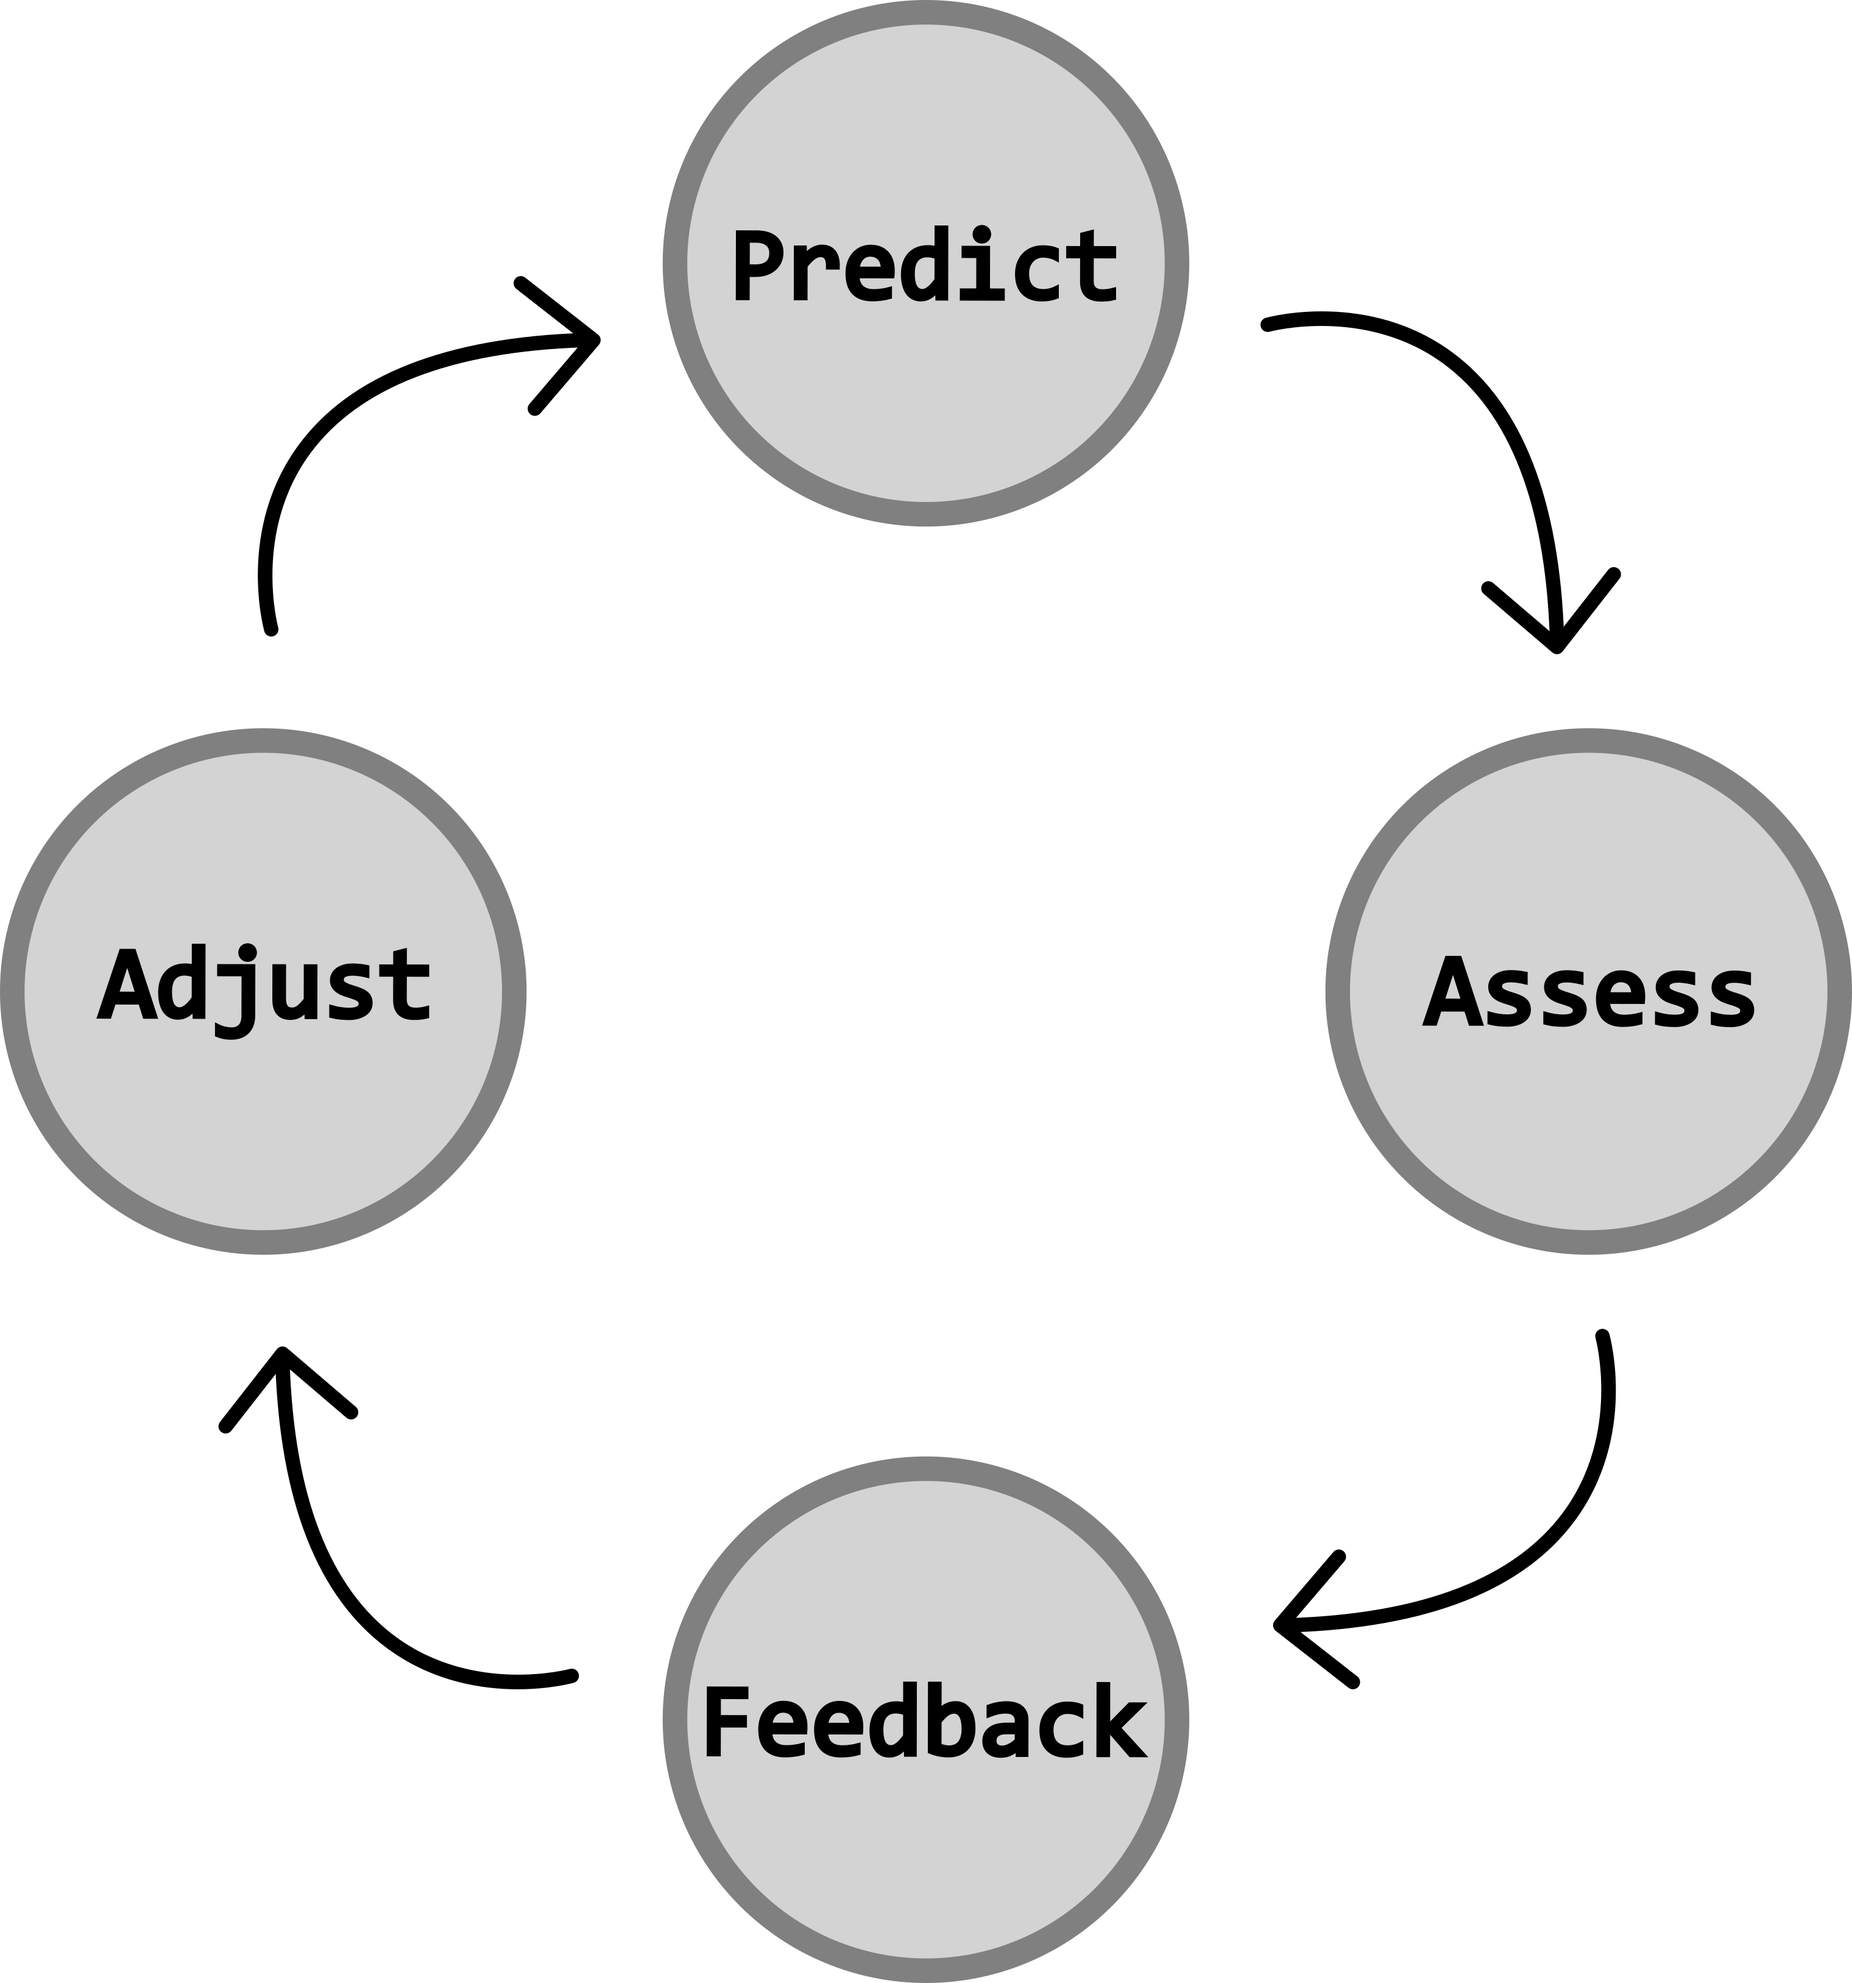
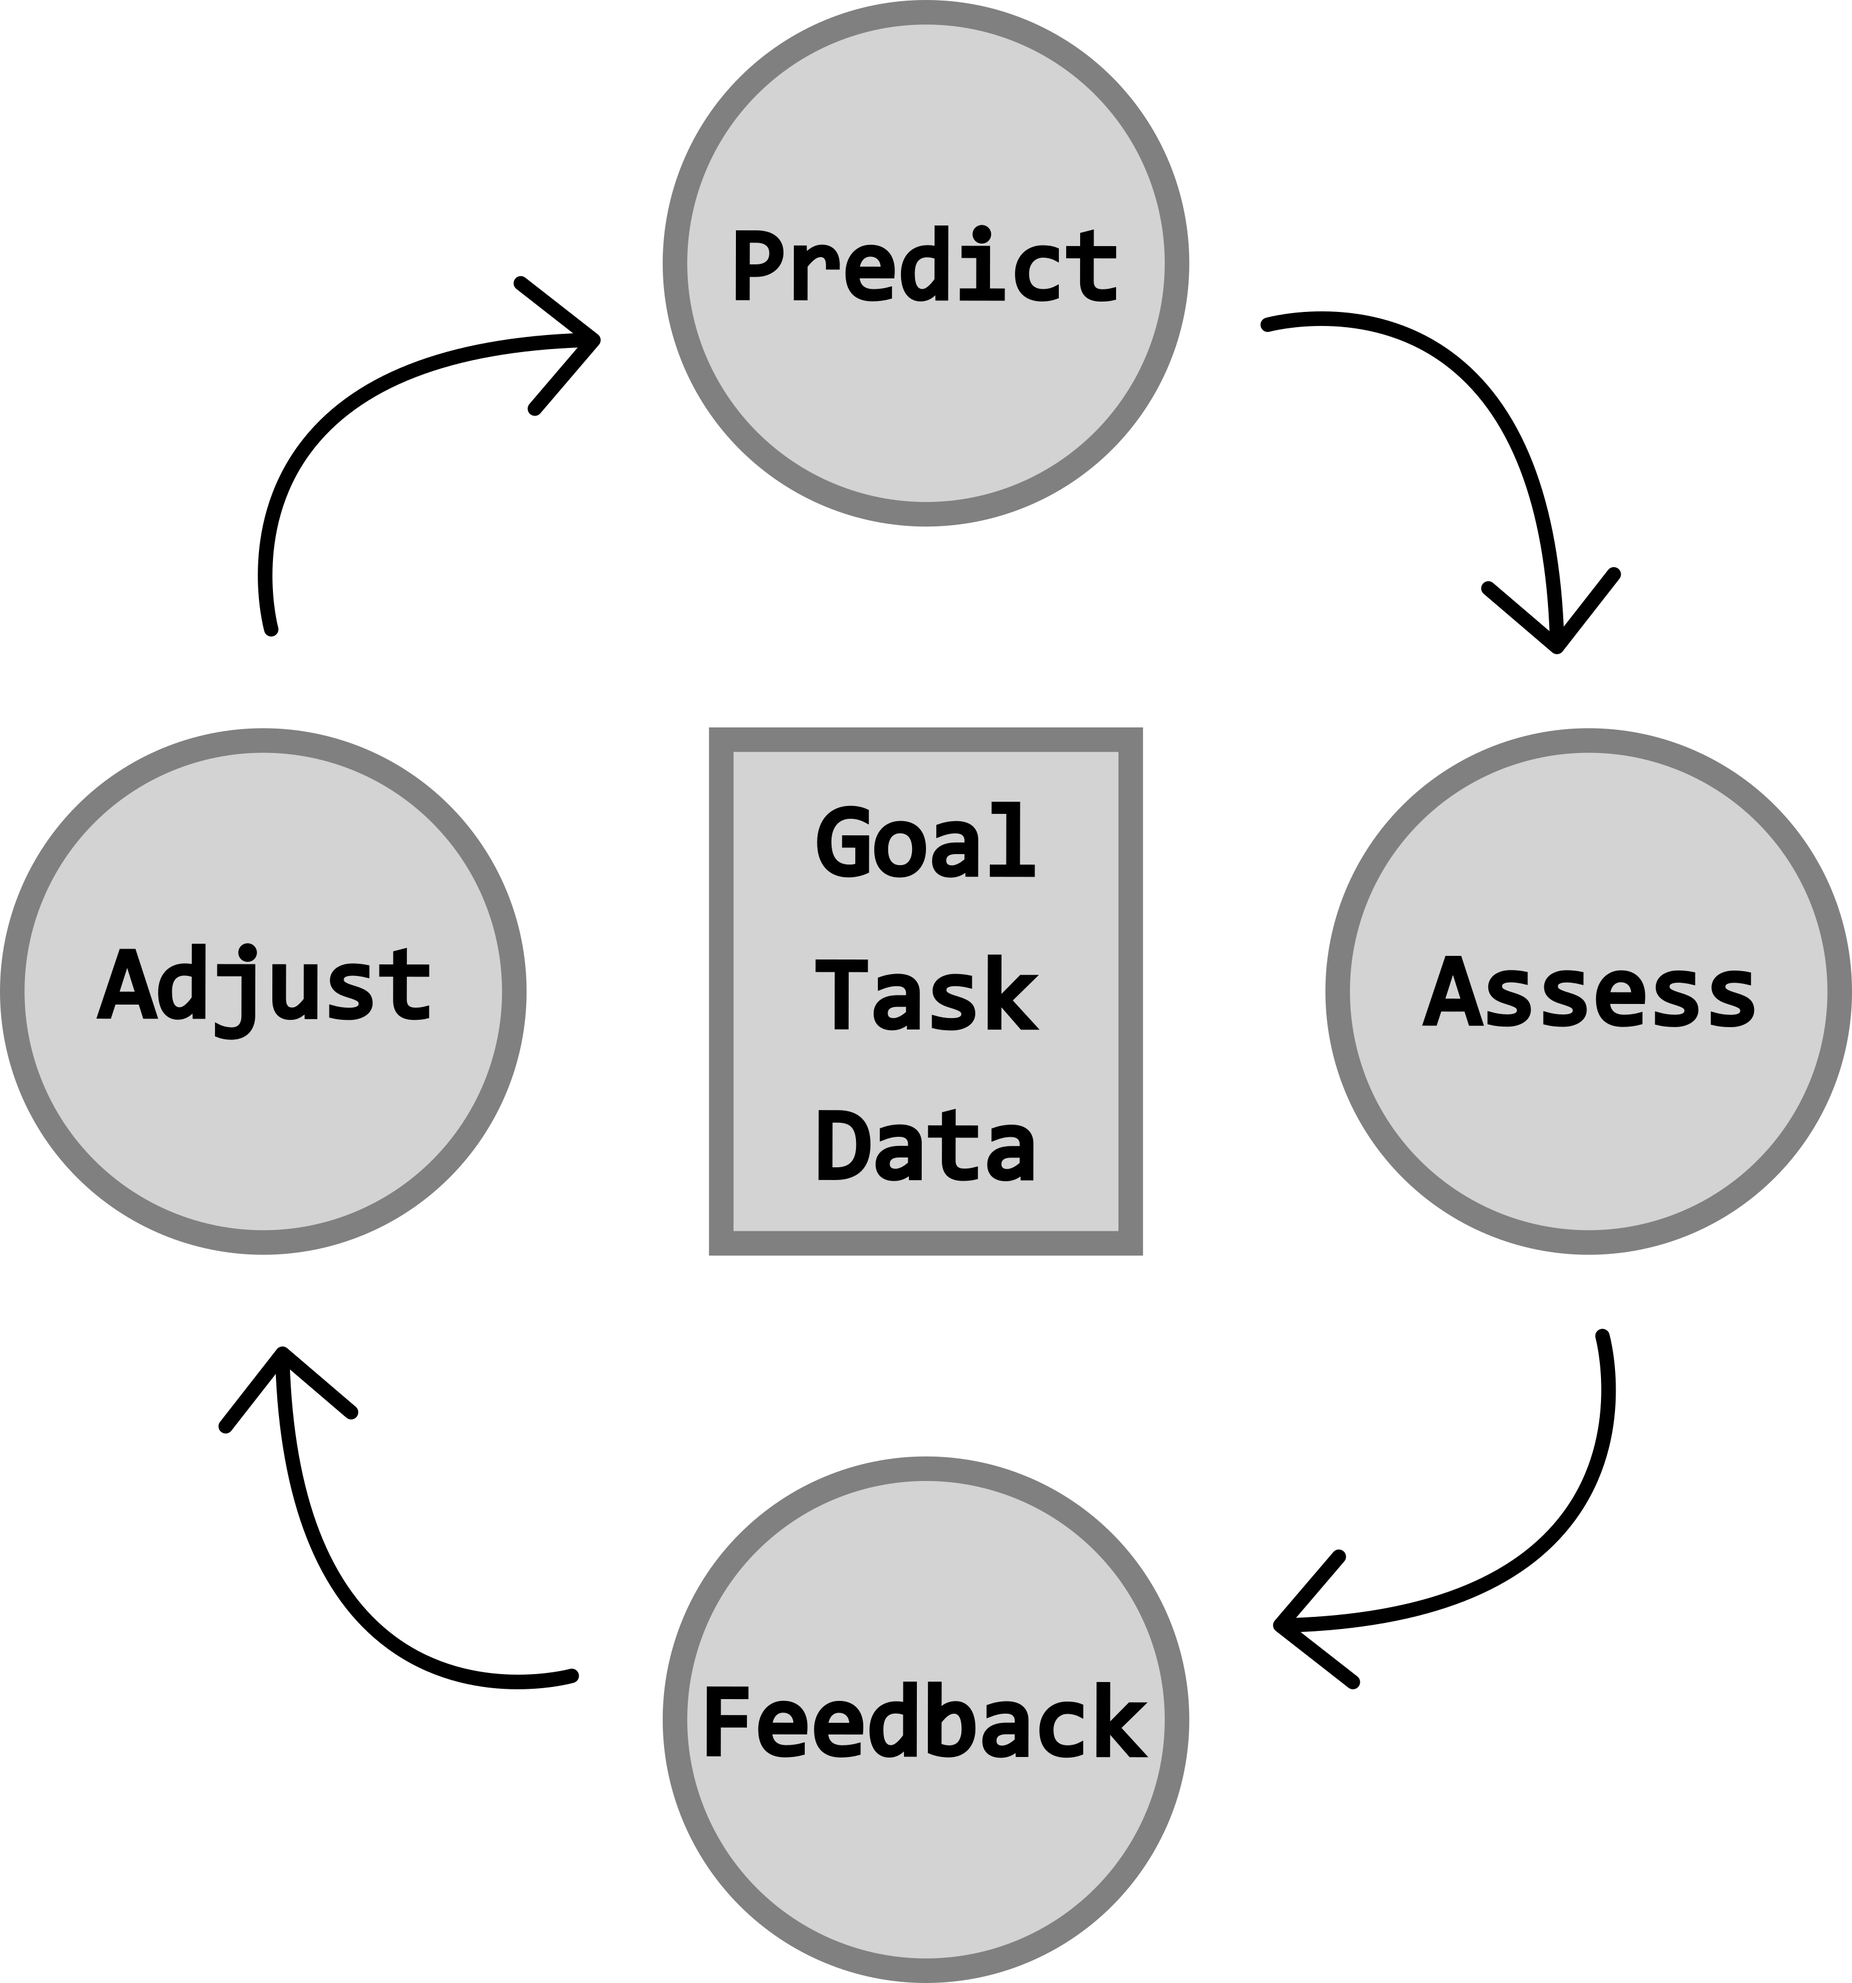
Updates to Intro

Changed region(s): [[0.375, 0.3413, 0.625, 0.6516]]

diff --git a/docs/01_intro.html b/docs/01_intro.html
@@ -208,6 +208,7 @@ window.Quarto = {
 
 <section id="relevant-resources" class="level2">
 <h2 class="anchored" data-anchor-id="relevant-resources">Relevant Resources</h2>
+<p><a href="https://www.deeplearningbook.org/" target="_blank">The Deep Learning Book</a></p>
 </section>
 <section id="what-is-deep-learning" class="level2">
 <h2 class="anchored" data-anchor-id="what-is-deep-learning">What is Deep Learning?</h2>
@@ -218,12 +219,13 @@ window.Quarto = {
 <img src="images/aivendiagram.png" class="img-fluid quarto-figure quarto-figure-center figure-img" style="width:50.0%">
 </div>
 <figcaption class="quarto-float-caption-bottom quarto-float-caption quarto-float-fig" id="fig-ai-vendiagram-caption-0ceaefa1-69ba-4598-a22c-09a6ac19f8ca">
-Figure&nbsp;1: AI Vendiagram
+Figure&nbsp;1: Different Types of Artificial Intelligence and Common Examples of Each
 </figcaption>
 </figure>
 </div>
 <section id="components-of-a-deep-neural-network" class="level3">
 <h3 class="anchored" data-anchor-id="components-of-a-deep-neural-network">Components of a Deep Neural Network</h3>
+<p>There are several key components and terms commonly used to describe a neural network. The <strong>depth</strong> of a neural network refers to the number of <strong>layers</strong> in its architecture (the example in <a href="#fig-neuralnetwork" class="quarto-xref">Figure&nbsp;2</a> has five layers), whereas the <strong>width</strong> refers to the number of neurons within each layer.</p>
 <div id="fig-neuralnetwork" class="quarto-float quarto-figure quarto-figure-center anchored" data-fig-align="center">
 <figure class="quarto-float quarto-float-fig figure">
 <div aria-describedby="fig-neuralnetwork-caption-0ceaefa1-69ba-4598-a22c-09a6ac19f8ca">
@@ -234,16 +236,15 @@ Figure&nbsp;2: Components of a Neural Network
 </figcaption>
 </figure>
 </div>
-<p>There are several key components and terms commonly used to describe a neural network. The <strong>depth</strong> of a neural network refers to the number of <strong>layers</strong> in its architecture (the example in <a href="#fig-neuralnetwork" class="quarto-xref">Figure&nbsp;2</a> has five layers), whereas the <strong>width</strong> refers to the number of neurons within each layer.</p>
-<p>The most fundamental unit of a deep neural network is the <strong>neuron</strong>, which serves as the building block of any neural network. A neuron receives a set of inputs (<span class="math inline">\(x_i\)</span>), computes their weighted sum (<span class="math inline">\(w_i\)</span>), and adds a bias term (<span class="math inline">\(b\)</span>). These <strong>weights</strong> and <strong>biases</strong> are adjustable parameters that the network learns during training.</p>
+<p>The most fundamental unit of a deep neural network is the <strong>neuron</strong>, which serves as the building block of any neural network. A neuron receives a set of inputs (<span class="math inline">\(x_i\)</span>), weights (<span class="math inline">\(w_i\)</span>) and sums them, while adding a bias term (<span class="math inline">\(b\)</span>). These <strong>weights</strong> and <strong>biases</strong> are adjustable parameters that the network learns during <strong>training</strong>.</p>
 <p><span class="math display">\[
-\Large y = w_1x_1 +w_2x_2 + b
+\Large y = w_1x_1 + w_2x_2 + b
 \]</span></p>
 <p>Another important part of a neuron is called the <strong>activation</strong>. The output of the weighted sum (<span class="math inline">\(y\)</span>) is passed through an activation function, which determines the strength of the output and whether the neuron becomes activated or not.</p>
 <div id="fig-neuron" class="quarto-float quarto-figure quarto-figure-center anchored" data-fig-align="center">
 <figure class="quarto-float quarto-float-fig figure">
 <div aria-describedby="fig-neuron-caption-0ceaefa1-69ba-4598-a22c-09a6ac19f8ca">
-<img src="images/neuron.png" class="img-fluid quarto-figure quarto-figure-center figure-img" style="width:75.0%">
+<img src="images/neuron.png" class="img-fluid quarto-figure quarto-figure-center figure-img" style="width:60.0%">
 </div>
 <figcaption class="quarto-float-caption-bottom quarto-float-caption quarto-float-fig" id="fig-neuron-caption-0ceaefa1-69ba-4598-a22c-09a6ac19f8ca">
 Figure&nbsp;3: Components of a Neuron
@@ -266,14 +267,26 @@ Note
 </section>
 <section id="the-prediction---feedback-loop" class="level3">
 <h3 class="anchored" data-anchor-id="the-prediction---feedback-loop">The Prediction - Feedback Loop</h3>
-<p>The <strong>prediction-feedback loop</strong> is what makes <strong>learning</strong> possible as a deep learning model doesn’t just memorize, it <strong>adapts</strong> and <strong>generalizes</strong>. This allows a model to fine-tune how it <em>sees</em> the input data to improve its performace.</p>
+<p>The <strong>prediction-feedback loop</strong> is what makes <strong>learning</strong> possible as a deep learning model doesn’t just memorize the data, it adapts and generalizes to it. This allows a model to fine-tune how it <em>sees</em> the input <strong>data</strong> to improve its performace based on the <strong>goal</strong> and the <strong>task</strong>.</p>
 <div id="fig-feedback-loop" class="quarto-float quarto-figure quarto-figure-center anchored" data-fig-align="center">
 <figure class="quarto-float quarto-float-fig figure">
 <div aria-describedby="fig-feedback-loop-caption-0ceaefa1-69ba-4598-a22c-09a6ac19f8ca">
-<img src="images/feedbackloop.png" class="img-fluid quarto-figure quarto-figure-center figure-img" style="width:75.0%">
+<img src="images/feedbackloop.png" class="img-fluid quarto-figure quarto-figure-center figure-img" style="width:60.0%">
 </div>
 <figcaption class="quarto-float-caption-bottom quarto-float-caption quarto-float-fig" id="fig-feedback-loop-caption-0ceaefa1-69ba-4598-a22c-09a6ac19f8ca">
 Figure&nbsp;4: Prediction-Feedback Loop
+</figcaption>
+</figure>
+</div>
+<p>This prediction–feedback loop is driven by the goal of the <strong>loss function</strong>, which guides the model in adjusting its weights and biases to find the optimal solution. The loss function assesses the difference between the true and predicted <strong>labels</strong> typically, with the goal to minimize the error between the two. There are different types of loss functions, each providing different feedback to the model. Choosing a loss function depends on the task (e.g., classification, regression), and ensuring that it is appropriate for the problem is a crucial step.</p>
+<p>Over a number of iterations, or <strong>epochs</strong>, the model adjusts its weights and biases based on the feedback received from the loss function. Eventually, the model can no longer improve given the input data, and at this point, the loss begins to stabilize, indicating that the model has reached its optimal performance.</p>
+<div id="fig-epochs" class="quarto-float quarto-figure quarto-figure-center anchored" data-fig-align="center">
+<figure class="quarto-float quarto-float-fig figure">
+<div aria-describedby="fig-epochs-caption-0ceaefa1-69ba-4598-a22c-09a6ac19f8ca">
+<img src="images/epochs.gif" class="img-fluid quarto-figure quarto-figure-center figure-img">
+</div>
+<figcaption class="quarto-float-caption-bottom quarto-float-caption quarto-float-fig" id="fig-epochs-caption-0ceaefa1-69ba-4598-a22c-09a6ac19f8ca">
+Figure&nbsp;5: Model Adjusting Over Epochs
 </figcaption>
 </figure>
 </div>
